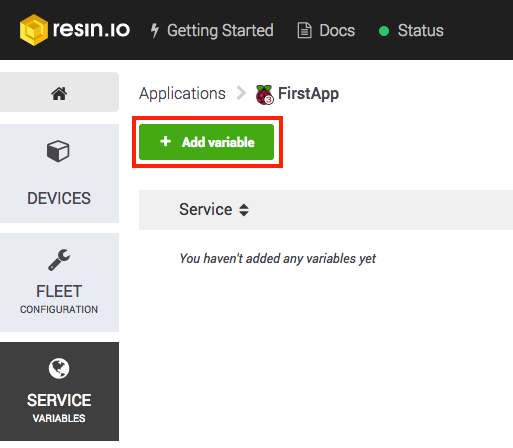
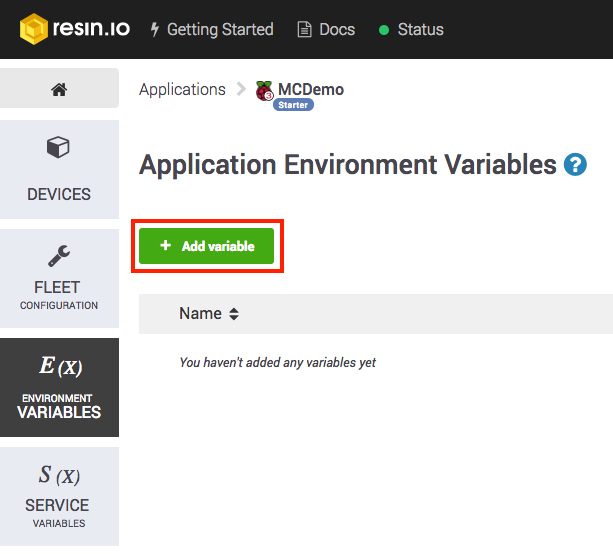
Updates for device (environment) variables
The service variables page needs to be updated for environment variables, which apply to all services on a device.

Change-type: patch

diff --git a/pages/learn/manage/serv-vars.md b/pages/learn/manage/serv-vars.md
@@ -1,48 +1,52 @@
 ---
-title: Service variables
+title: Environment and service variables
 ---
 
-# Service variables 
+# Environment and service variables 
 
-Service variables allow you to provide runtime configuration to a running service without having to modify your source code. You can use them to keep secrets and other sensitive values out of your codebase.
+Environment and service variables allow you to provide runtime configuration to one or more running services without having to modify your source code. You can use them to keep secrets and other sensitive values out of your codebase.
 
-__Note:__ Adding or modifying a service variable will cause the service to restart on any devices where the new setting is applied.
+__Note:__ Adding or modifying an environment variable will restart all services on a device. Service variables only restart the affected service.
 
-Resin.io allows you to set service variables at both the fleet and device level.
+Environment variables are accessible to all services running on a device, whereas service variables are assigned to a specific service. Both environment and service variables can be applied at the fleet or the individual device level. 
 
-__Note:__ Service variables defined in the dashboard will not apply to devices in [local mode][local-mode]. You will need to define them in your `resin-sync.yml`.
+Values defined for individual devices always override those defined for the fleet. Values defined for services override environment variables defined at the same level. So for any given variable, the **device service variable** will always have top priority, followed by the **device environment variable**, then the **fleet service variable**, and finally the **fleet environment variable**.
 
-## Fleet service variables
+__Note:__ Environment and service variables defined in the dashboard will not apply to devices in [local mode][local-mode]. You will need to define them in your `resin-sync.yml`.
 
-Service variables defined on the fleet level are available to the specified service on all devices in that fleet, unless they are redefined with a device service variable of the same name.
+## Fleet environment and service variables
 
-The application dashboard has a *Service Variables* tab containing a list of all fleet service variables.
+Environment and service variables defined on the fleet level are available to all devices in that fleet, unless they are redefined with a variable of the same name on the device level.
 
-To define a new fleet service variable, make sure you are in the *Service Variables* tab, then click the *Add variable* button in the upper-left corner:
+They can be found from the application summary page under the *Environment Variables* and *Service Variables* tabs.
+
+To define a new variable, click the *Add variable* button in the upper-left corner:
 
 <img src="/img/env-vars/add_application_variable.png" width="40%">
 
-A new dialog will pop up, asking you to select a service from the drop down menu. Once you have selected the service, you can define the name and value for your service variable. Click *Add* to apply to all devices in your fleet that do not already have an identical device service variable defined:
+For service variables, you will be asked to select a service from the drop down menu. 
+
+Define a name and value for your variable. Click *Add* to apply to all devices in your fleet that do not have their own values defined:
 
 <img src="/img/env-vars/variable_editor.png" width="60%">
 
-Your new service variable will show up in the list, where it can easily be edited or removed:
+Your new environment or service variable will show up in the list, where it can easily be edited or removed:
 
 <img src="/img/env-vars/variable_list.png" width="100%">
 
-__Note:__ Deleting a fleet service variable will not delete a device service variable of the same name.
+__Note:__ Deleting a fleet-level variable will not delete a device-level variable of the same name.
 
-If you have already defined service variables at the device level, they will appear in a list below your fleet service variables. You can easily apply a device value to the entire fleet by clicking *Define fleet-wide*:
+If you have already defined environment or service variables at the device level, they will appear below the fleet variables of the same type. You can easily apply a device value to the entire fleet by clicking *Define fleet-wide*:
 
 <img src="/img/env-vars/define_app_wide.png" width="100%">
 
-## Device service variables
+## Device environment and service variables
 
-Device service variables are available to the service running on that particular device. If both the fleet and the device have a service variable of the same name, the code on the device will use the value of the device service variable. In other words, device service variables redefine (or override) fleet service variables.
+Device environment and service variables are applied to only one device. Device service variables override device environment variables of the same name, and all device variables override fleet variables.
 
-Adding a device service variable is very similar to adding a fleet service variable. From the device summary page, select the *Device Service Variables* tab, click *Add variable*, select the appropriate service from the drop down, add a name and value, and click *Add*.
+Adding a device variable is very similar to adding a fleet variable. From the device summary page, select *Device Variables* for environment variables or *Device Service Variables* for service variables. Click *Add variable*, select the appropriate service if necessary, add a name and and a value, and click *Add*.
 
-The service variable list will include both values defined for that specific device, as well as any fleet service variables: 
+The variable list will include both values defined for that specific device, as well as any fleet variables of the same type: 
 
 <img src="/img/env-vars/device_variables.png" width="100%">
 
@@ -52,7 +56,7 @@ You can override the value of a fleet variable by clicking *override* in the far
 
 ## Managing with the CLI & SDK
 
-The resin.io CLI and SDKs all include methods to easily read, add or update service variables. Consult the appropriate reference for code examples.
+The resin.io CLI and SDKs all include methods to easily read, add or update environment and service variables. Consult the appropriate reference for code examples.
 
 * [CLI environment reference](/tools/cli/#envs)
 * [Node.js SDK environment reference](/tools/sdk/#resin.models.environment-variables)
